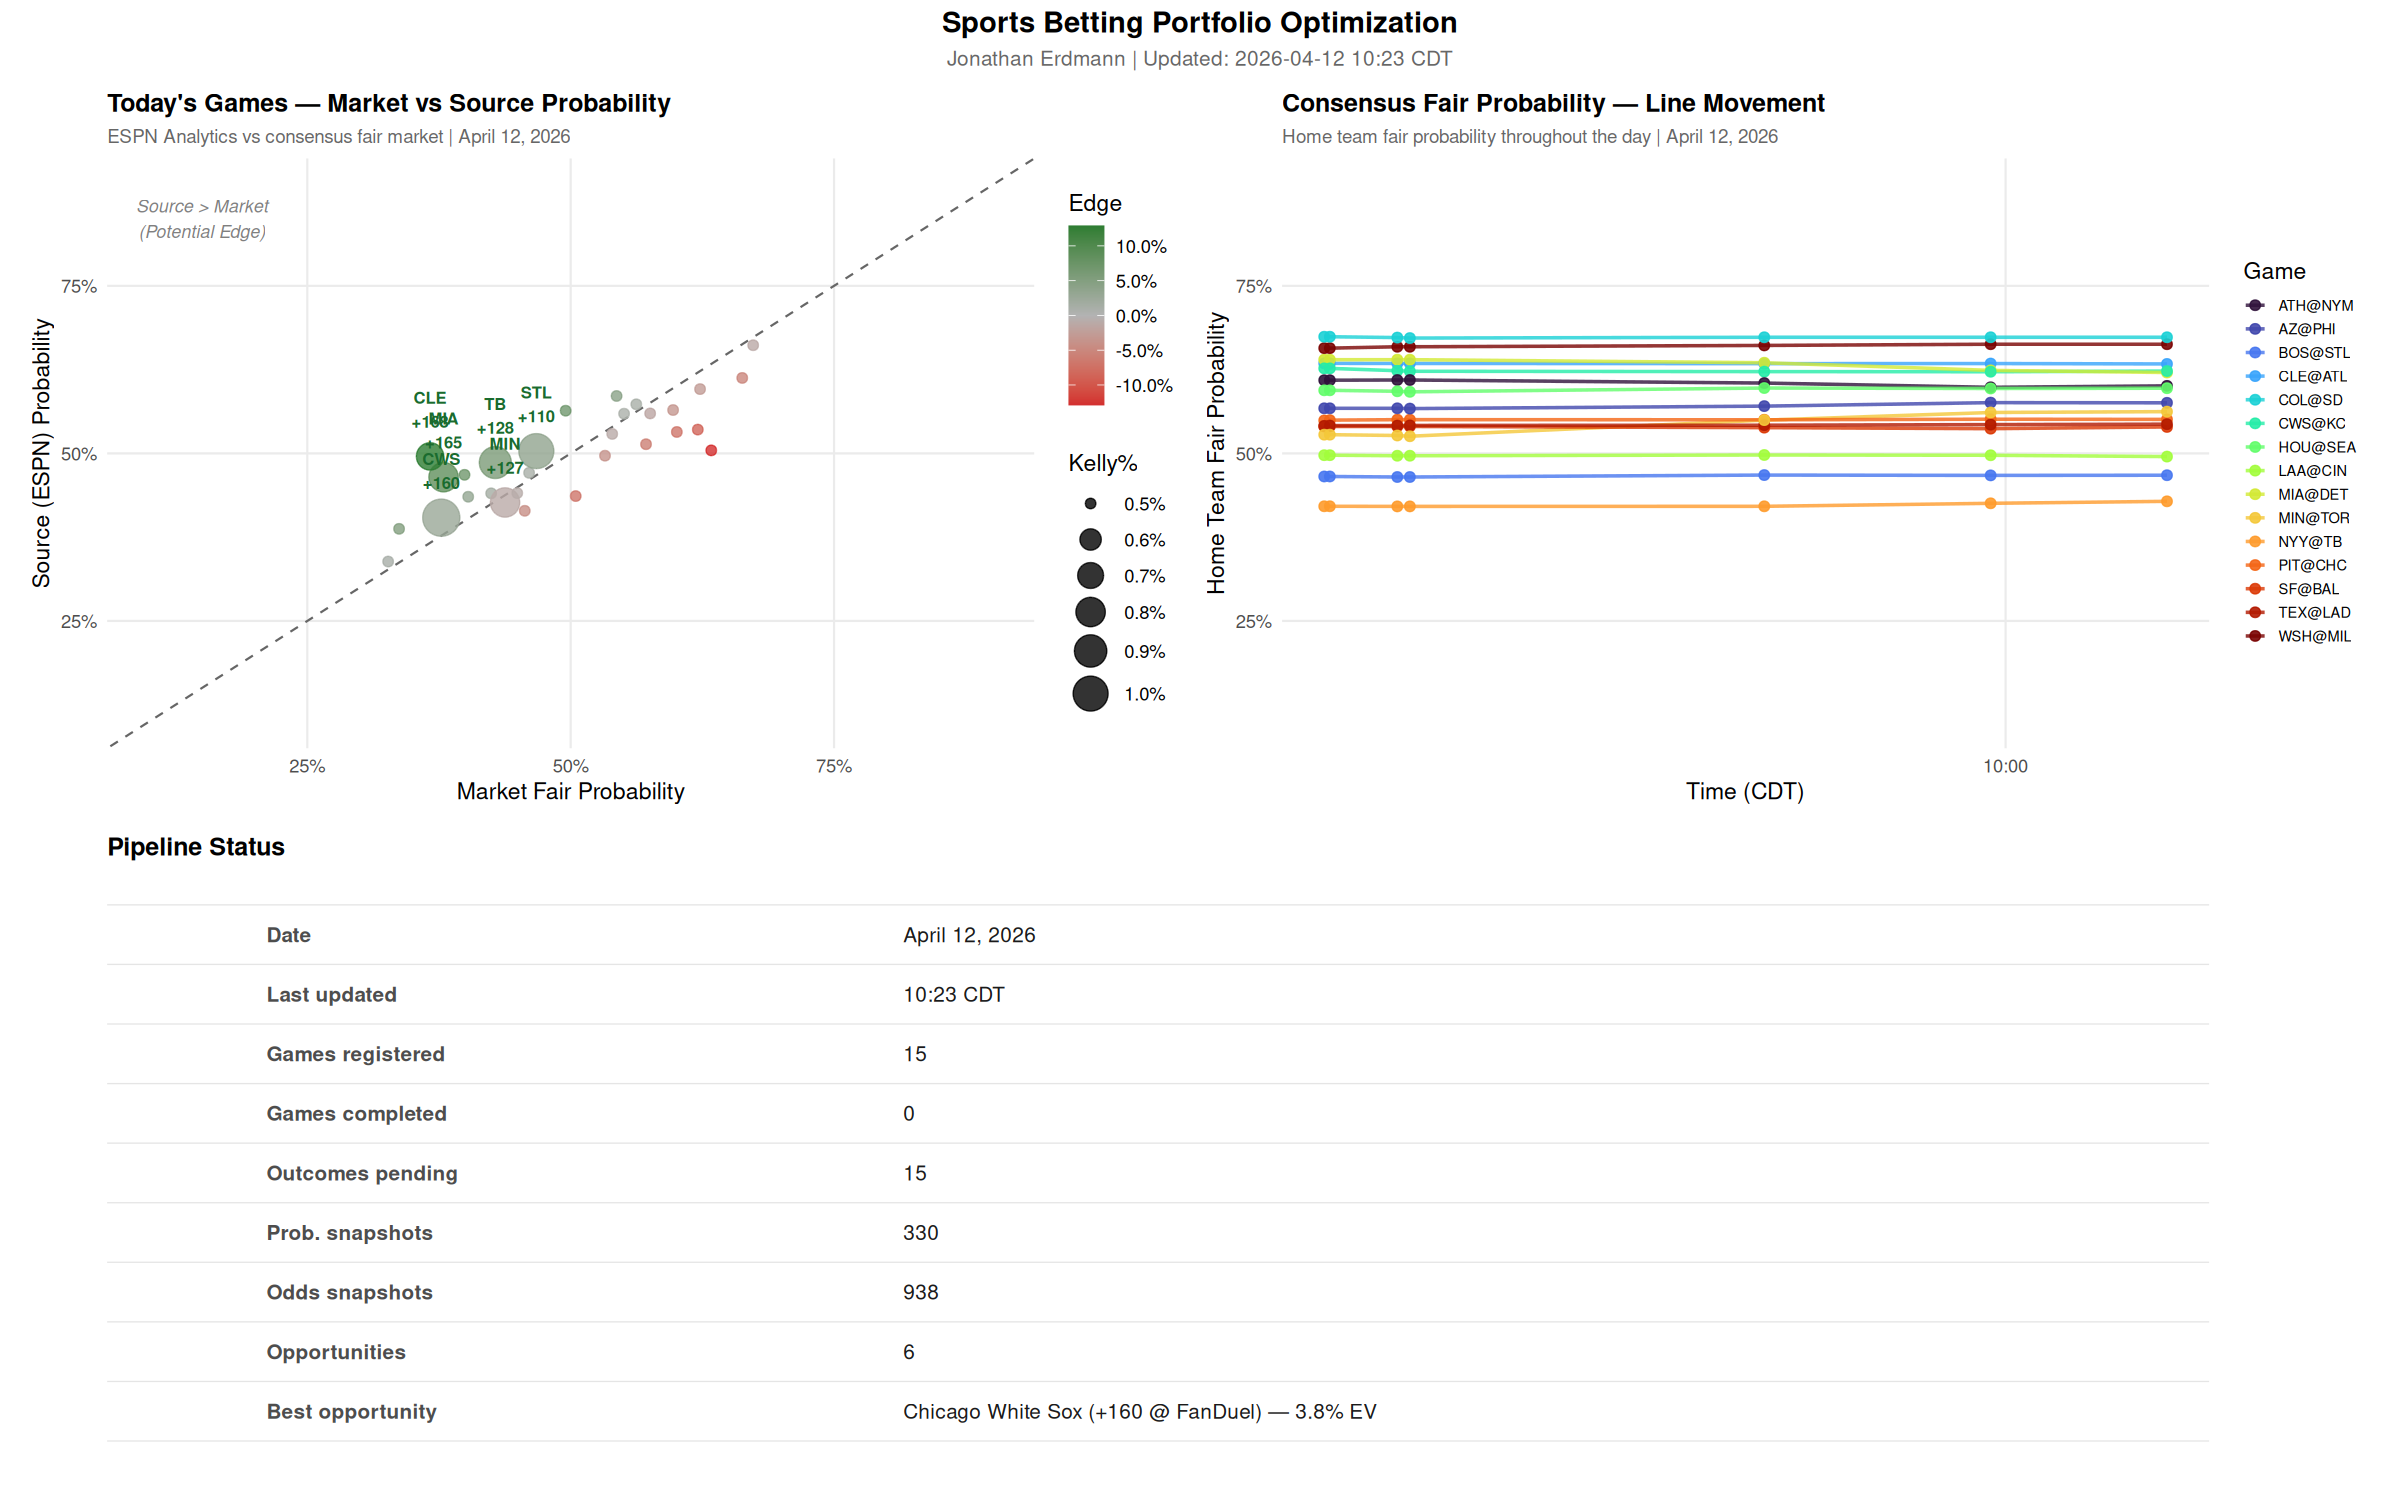
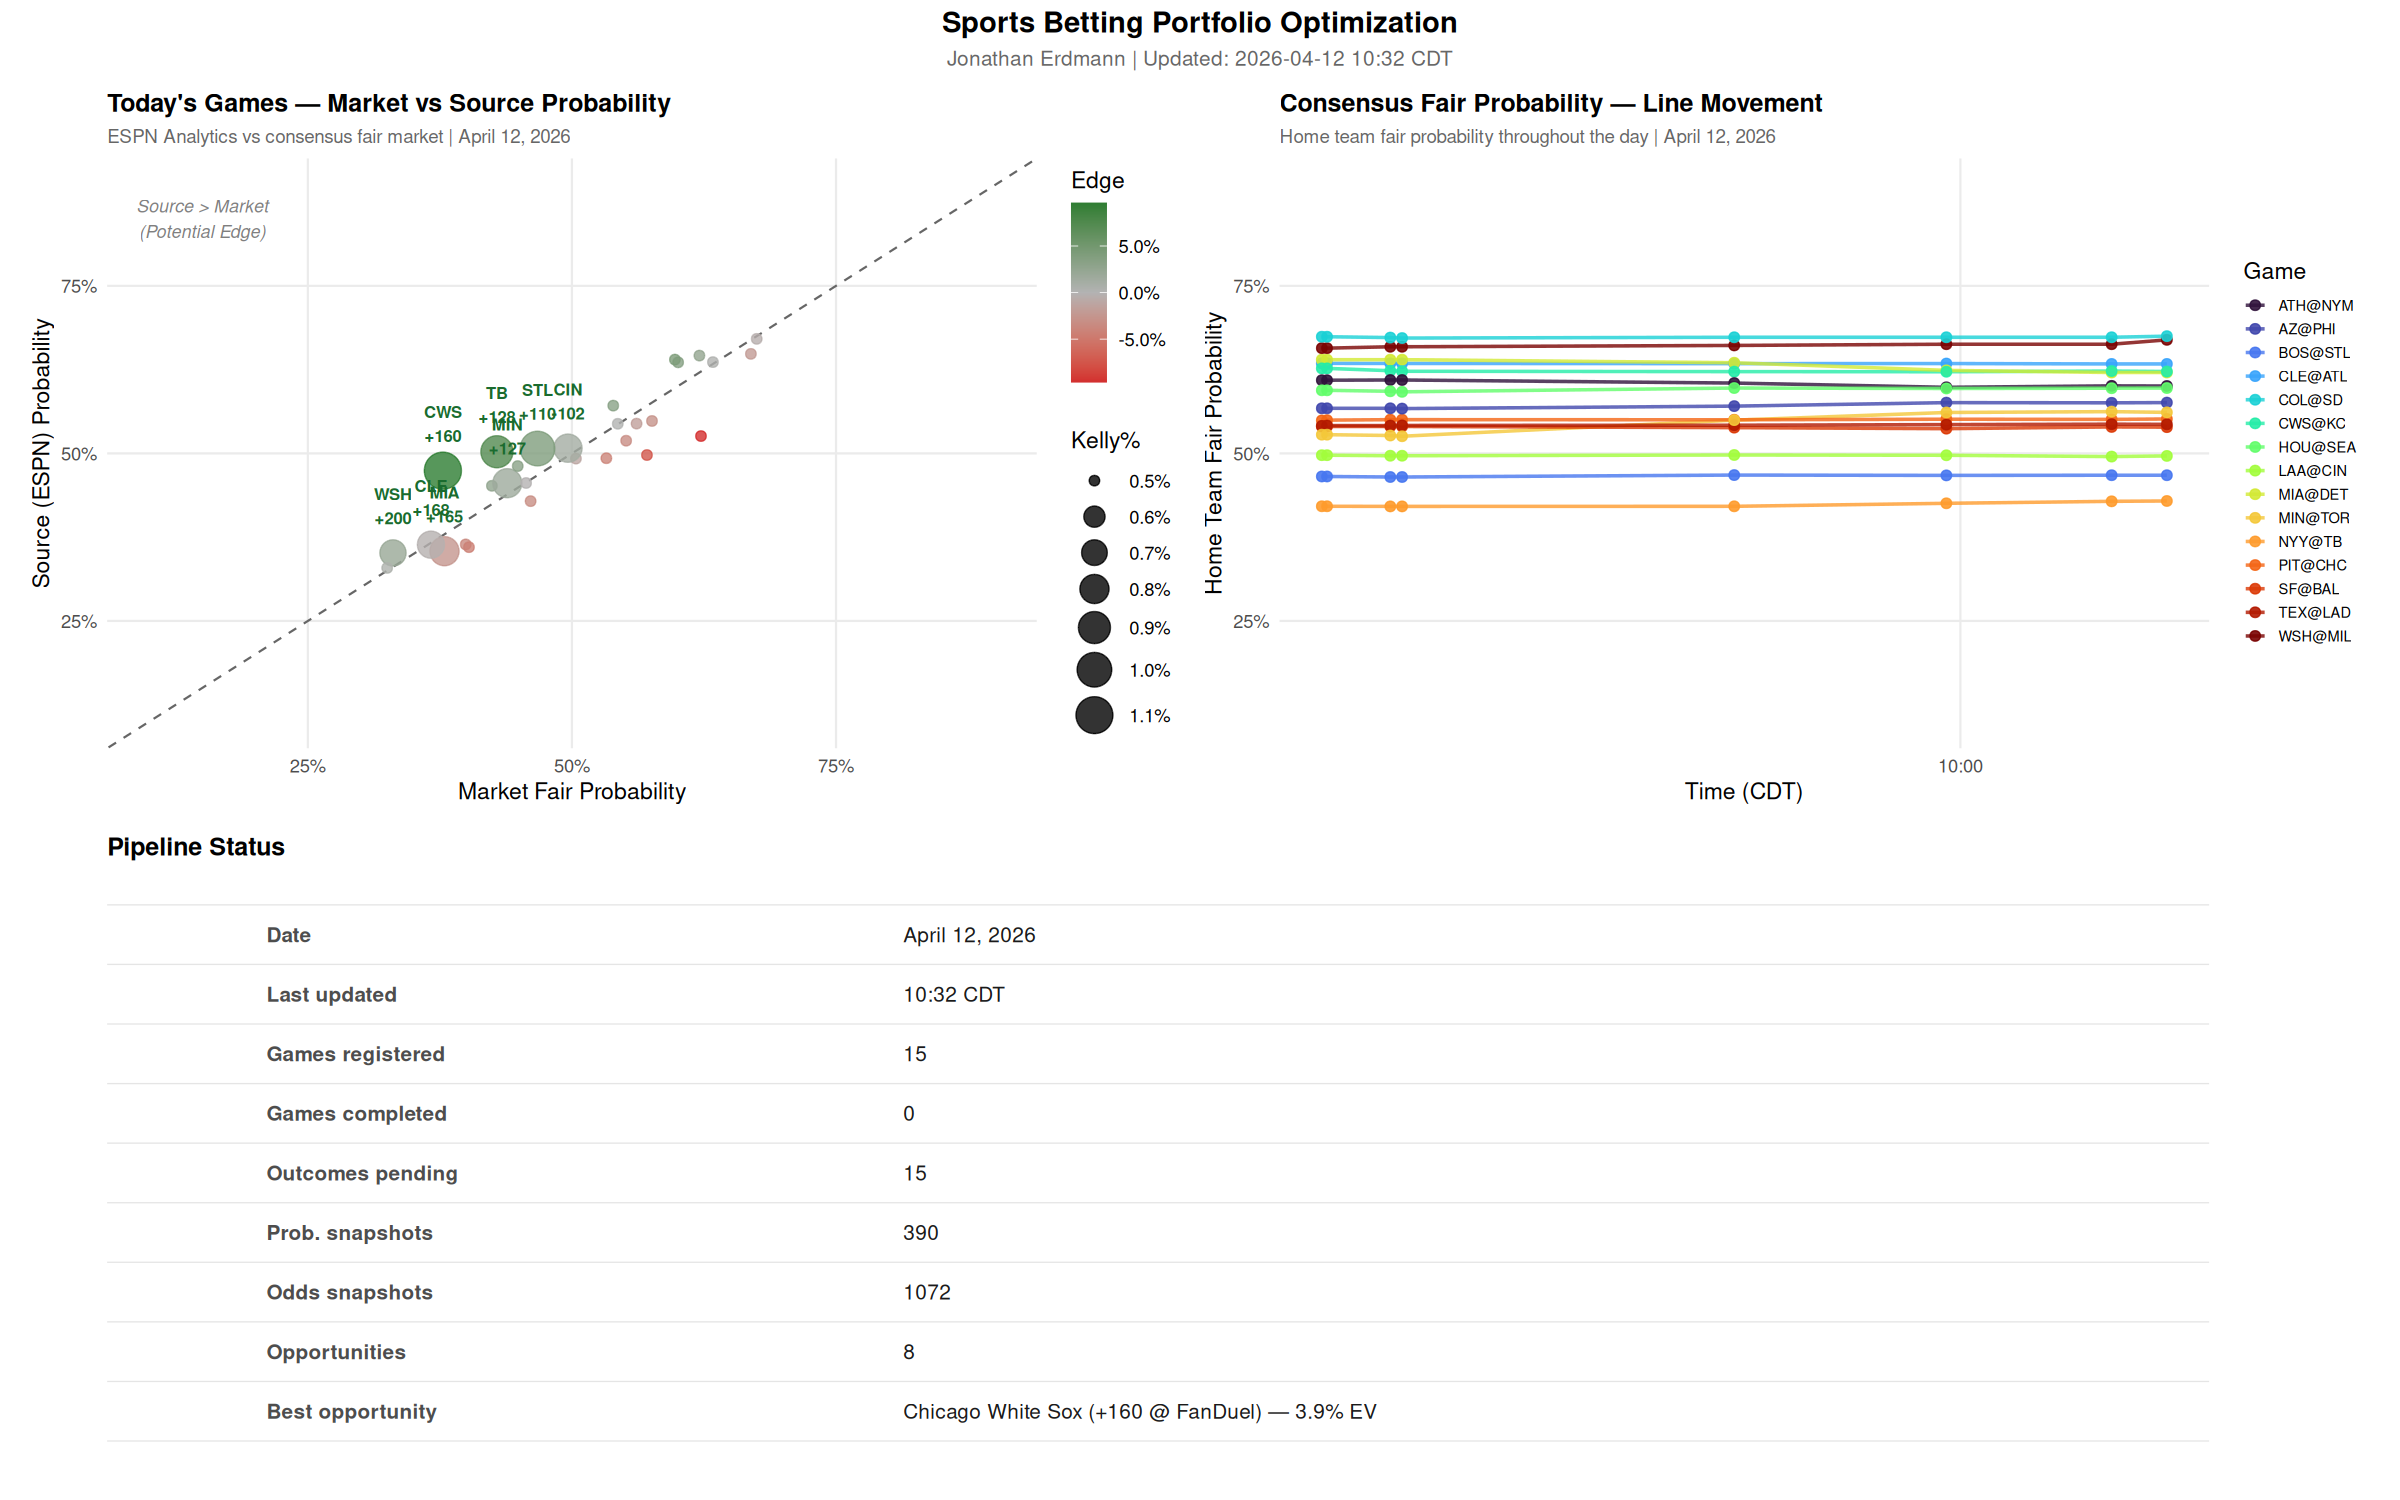
Update dashboard: 2026-04-12 10:32

diff --git a/projects/portfolio-optimization/dashboard.md b/projects/portfolio-optimization/dashboard.md
@@ -6,7 +6,7 @@ permalink: /projects/portfolio-optimization/dashboard/
 
 ## Daily Pipeline Dashboard
 
-**Last updated:** April 12, 2026 10:23 CDT
+**Last updated:** April 12, 2026 10:32 CDT
 
 ---
 
@@ -14,12 +14,14 @@ permalink: /projects/portfolio-optimization/dashboard/
 
 | Team | ML | Market% | Posterior% | EV% | Kelly% | Bet by | Book |
 |---|---|---|---|---|---|---|---|
-| Chicago White Sox | +160 | 37.7% | 39.9% | 3.8% | 0.59% | 11:10 CDT | BetRivers |
+| Chicago White Sox | +160 | 37.8% | 40.0% | 3.9% | 0.61% | 11:10 CDT | BetRivers |
 | St. Louis Cardinals | +110 | 46.7% | 48.7% | 2.2% | 0.50% | 11:15 CDT | BetOnline.ag |
-| Tampa Bay Rays | +128 | 42.8% | 44.7% | 2.0% | 0.39% | 10:40 CDT | LowVig.ag |
+| Tampa Bay Rays | +128 | 42.9% | 44.8% | 2.0% | 0.40% | 10:40 CDT | LowVig.ag |
 | Miami Marlins | +165 | 37.9% | 38.5% | 2.0% | 0.30% | 10:40 CDT | BetRivers |
+| Washington Nationals | +200 | 33.1% | 33.9% | 1.7% | 0.21% | 11:10 CDT | LowVig.ag |
 | Cleveland Guardians | +168 | 36.7% | 37.9% | 1.6% | 0.24% | 16:20 CDT | BetOnline.ag |
 | Minnesota Twins | +127 | 43.8% | 44.7% | 1.5% | 0.30% | 10:37 CDT | BetOnline.ag |
+| Cincinnati Reds | -102 | 49.6% | 51.0% | 1.1% | 0.27% | 10:40 CDT | BetOnline.ag |
 
 ---
 
